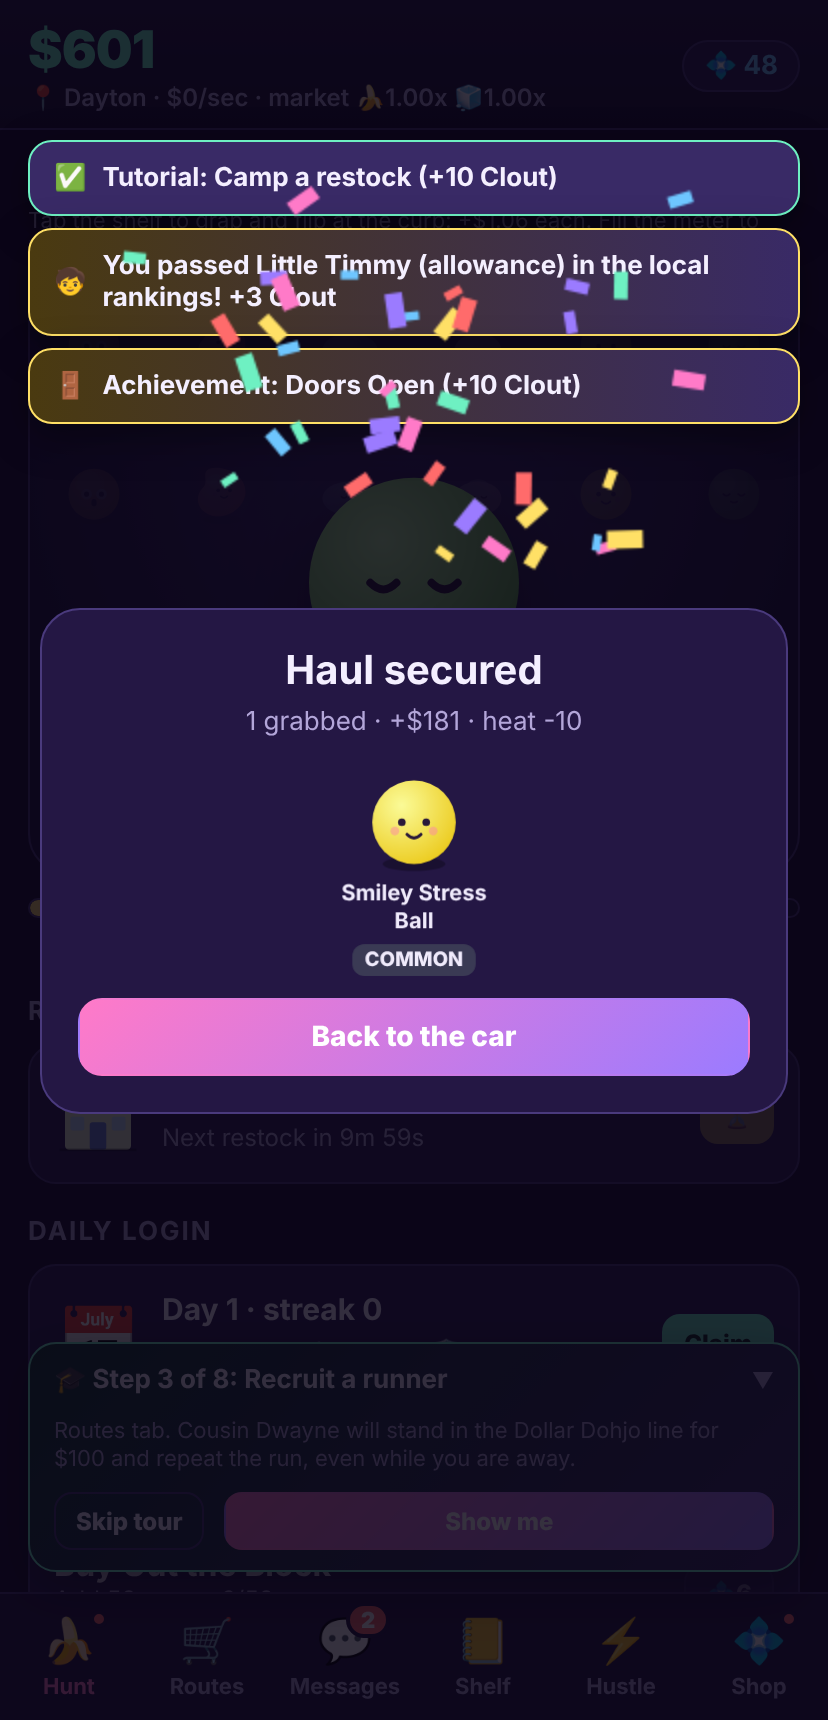
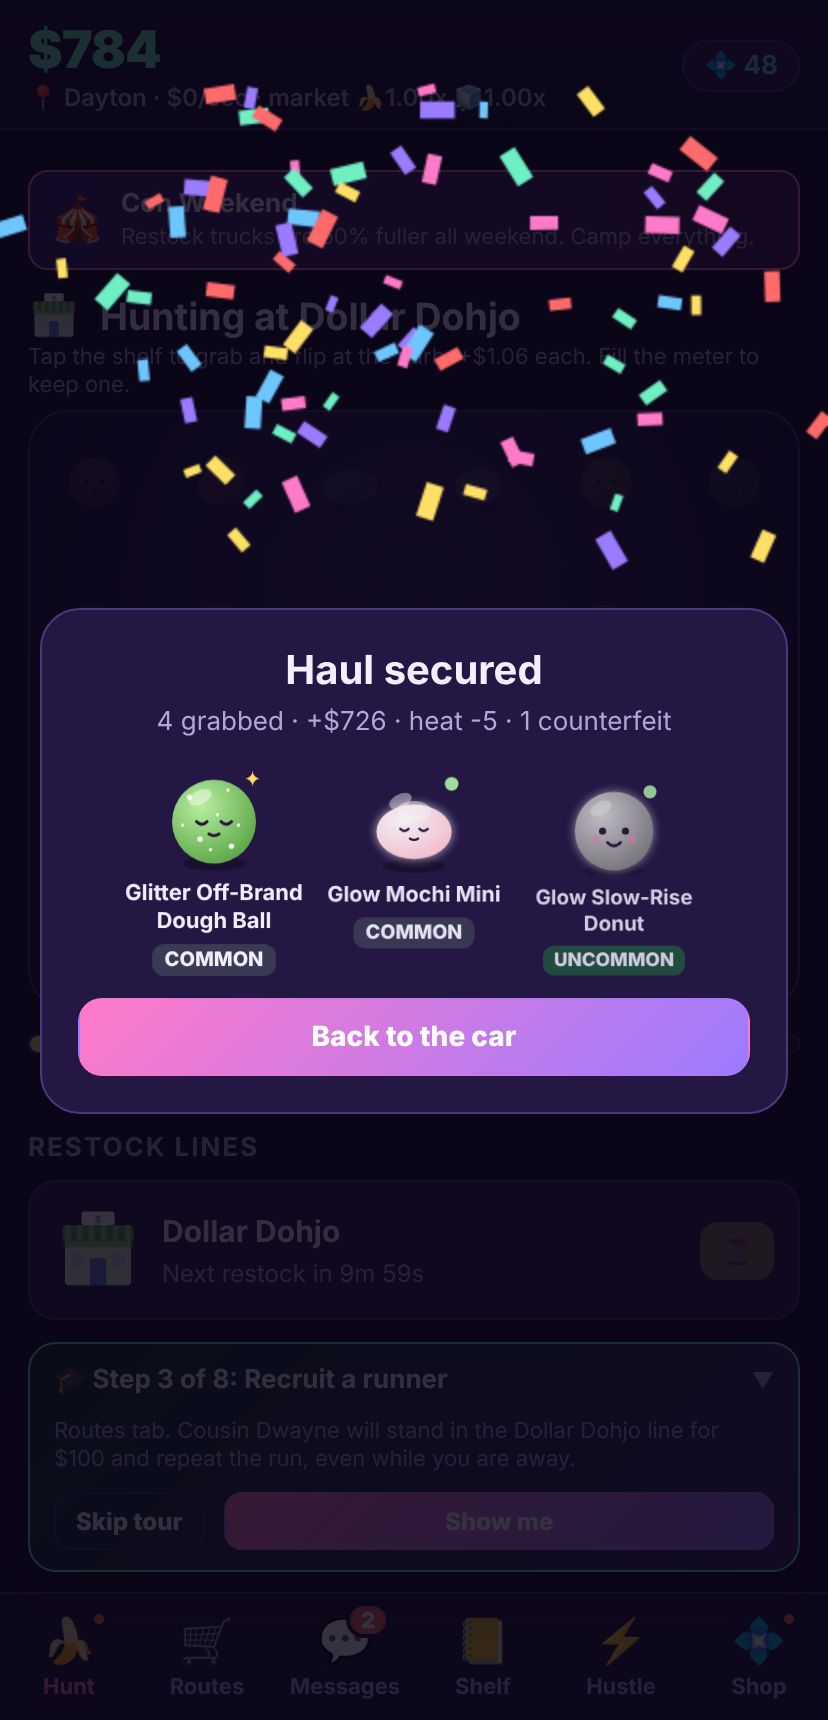
Scalping Squishies: trade board, quiet screenshots, listing shots in CI
- Trade board (Shelf → 🔄): three offers a day rolled from the dupes
  on the shelf. Collectors swap a piece you do not own for 2 copies at
  the same rarity or 3 copies one tier up; you always keep one copy;
  seasonal items never appear; variant gaps are offered once a tier's
  standards are all owned. Rolls in the tick, 4 tests.
- ?quiet=1 hides toasts; the smoke test runs quiet so screenshots are
  clean. Store screenshots regenerated.
- CI composes the six framed App Store screenshots on every push and
  uploads them as the store-screenshots artifact.
- Backlog and design doc updated. 85 tests.

Claude-Session: https://claude.ai/code/session_01MZnGvyVSyAsA5yFMotXPV8

diff --git a/scalping-squishies/src/engine/trades.ts b/scalping-squishies/src/engine/trades.ts
@@ -1,0 +1,106 @@
+// Trade board: NPC collectors who swap pieces you are missing for the
+// duplicates clogging your shelf. Three offers a day. You always keep one
+// copy of what you give, the piece you get is one you do not own, and the
+// rarity never jumps more than one tier, so trades complete pages rather
+// than skipping the pull economy.
+import type { GameState, ItemDef, PullView, Rarity, Variant } from './types';
+import { ITEMS, ITEM_BY_ID, RARITY_ORDER, VARIANTS, shelfKey, parseShelfKey } from './data/items';
+import { todayKey } from './math';
+
+export interface TradeOffer {
+  id: number;
+  collector: string;
+  icon: string;
+  line: string;
+  /** Shelf key you give (item id, or id:variant) and how many. */
+  giveKey: string;
+  giveQty: number;
+  /** What you get: always a slot you do not own. */
+  getItemId: string;
+  getVariant: Variant;
+}
+
+export interface TradeBoard {
+  date: string;
+  offers: TradeOffer[];
+  done: number[];
+}
+
+const COLLECTORS: { name: string; icon: string; lines: string[] }[] = [
+  { name: 'Nana Pat', icon: '👵', lines: ['"I have three of these and no grandkids left to give them to."', '"My page is missing one. Yours has extras. We are both adults."'] },
+  { name: 'Group Admin Brenda', icon: '📱', lines: ['"Trade only, no cash, keep it in the group."', '"I need this one for a giveaway I am not running."'] },
+  { name: 'Dalton', icon: '🧢', lines: ['"It\'s for my kid." It is not for his kid.', '"Straight swap, no shipping, meet at the gas station."'] },
+  { name: 'Retired guy who is just curious', icon: '👴', lines: ['"Which one is the valuable one? Never mind. Swap?"', '"I bought the wrong one for my grandson. Twice."'] },
+  { name: 'the_other_reseller', icon: '🤝', lines: ['"Even trade, bro. Don\'t check the comps."', '"I have a spare. You have a spare. Math."'] },
+];
+
+const rarityIndex = (r: Rarity) => RARITY_ORDER.indexOf(r);
+
+/** Dupes you could give: standard-or-variant slots with at least `qty + 1` copies. */
+export function tradeableDupes(s: GameState): { key: string; item: ItemDef; variant: Variant; count: number }[] {
+  const out: { key: string; item: ItemDef; variant: Variant; count: number }[] = [];
+  for (const [key, count] of Object.entries(s.shelf)) {
+    if (count < 2) continue;
+    const { itemId, variant } = parseShelfKey(key);
+    const item = ITEM_BY_ID[itemId];
+    if (item && !item.season) out.push({ key, item, variant, count });
+  }
+  return out;
+}
+
+/** Slots you lack that a collector would offer for a dupe of `give`: core items, at most one rarity tier up. */
+function wantsFor(s: GameState, give: ItemDef, rand: () => number): { item: ItemDef; variant: Variant } | null {
+  const maxTier = Math.min(RARITY_ORDER.length - 1, rarityIndex(give.rarity) + 1);
+  const missing = ITEMS.filter((i) => rarityIndex(i.rarity) <= maxTier && (s.shelf[i.id] ?? 0) === 0);
+  const sameFamily = missing.filter((i) => i.family === give.family);
+  const pool = sameFamily.length && rand() < 0.7 ? sameFamily : missing;
+  if (pool.length) return { item: pool[Math.floor(rand() * pool.length)], variant: 'standard' };
+  // Every standard at that tier is owned: offer a missing variant slot of something you have.
+  const variantGaps: { item: ItemDef; variant: Variant }[] = [];
+  for (const i of ITEMS) {
+    if (rarityIndex(i.rarity) > maxTier || (s.shelf[i.id] ?? 0) === 0) continue;
+    for (const v of VARIANTS) if (v !== 'standard' && (s.shelf[shelfKey(i.id, v)] ?? 0) === 0) variantGaps.push({ item: i, variant: v });
+  }
+  return variantGaps.length ? variantGaps[Math.floor(rand() * variantGaps.length)] : null;
+}
+
+/** Roll today's board if it has not been rolled yet. Returns true when it rolled. */
+export function rollTrades(s: GameState, now: number, rand: () => number): boolean {
+  const key = todayKey(now);
+  if (s.trades.date === key) return false;
+  const dupes = tradeableDupes(s);
+  const offers: TradeOffer[] = [];
+  const usedGive = new Set<string>();
+  const usedGet = new Set<string>();
+  let guard = 0;
+  while (offers.length < 3 && dupes.length && guard++ < 30) {
+    const d = dupes[Math.floor(rand() * dupes.length)];
+    if (usedGive.has(d.key)) continue;
+    const want = wantsFor(s, d.item, rand);
+    if (!want) break;
+    const getKey = shelfKey(want.item.id, want.variant);
+    if (usedGet.has(getKey)) continue;
+    const up = rarityIndex(want.item.rarity) - rarityIndex(d.item.rarity);
+    const qty = (up >= 1 ? 3 : 2) * (d.variant === 'standard' ? 1 : 1);
+    if (d.count < qty + 1) continue;
+    const c = COLLECTORS[Math.floor(rand() * COLLECTORS.length)];
+    usedGive.add(d.key);
+    usedGet.add(getKey);
+    offers.push({ id: offers.length + 1, collector: c.name, icon: c.icon, line: c.lines[Math.floor(rand() * c.lines.length)], giveKey: d.key, giveQty: qty, getItemId: want.item.id, getVariant: want.variant });
+  }
+  s.trades = { date: key, offers, done: [] };
+  return true;
+}
+
+/** Make the swap. Returns what you got, or null if the offer is gone or you no longer have the dupes. */
+export function acceptTrade(s: GameState, id: number): PullView | null {
+  const o = s.trades.offers.find((x) => x.id === id);
+  if (!o || s.trades.done.includes(id)) return null;
+  if ((s.shelf[o.giveKey] ?? 0) < o.giveQty + 1) return null;
+  const getKey = shelfKey(o.getItemId, o.getVariant);
+  s.shelf[o.giveKey] -= o.giveQty;
+  s.shelf[getKey] = (s.shelf[getKey] ?? 0) + 1;
+  s.trades.done.push(id);
+  s.stats.tradesDone += 1;
+  return { item: ITEM_BY_ID[o.getItemId], variant: o.getVariant };
+}

diff --git a/scalping-squishies/src/ui/ShelfTab.tsx b/scalping-squishies/src/ui/ShelfTab.tsx
@@ -9,6 +9,8 @@ import type { ItemFamily, Variant } from '../engine/types';
 import { Sprite } from '../art/Sprite';
 import { SEASON_BY_ID } from '../engine/data/seasons';
 import { visibleSeasonItems } from '../engine/season';
+import { tradeableDupes } from '../engine/trades';
+import { parseShelfKey } from '../engine/data/items';
 
 export function ShelfTab() {
   const s = useGame((g) => g.s);
@@ -16,14 +18,16 @@ export function ShelfTab() {
   const pull = useGame((g) => g.pull);
   const sellDupe = useGame((g) => g.sellDupe);
   const watchAd = useGame((g) => g.watchAd);
-  const [fam, setFam] = useState<ItemFamily | 'all' | 'sets' | 'season'>('all');
+  const [fam, setFam] = useState<ItemFamily | 'all' | 'sets' | 'season' | 'trades'>('all');
+  const acceptTradeOffer = useGame((g) => g.acceptTradeOffer);
   const [sel, setSel] = useState<string | null>(null);
   const m = computeModifiers(s, now);
   const slots = ITEMS.length * VARIANTS.length;
   const ownedSlots = ITEMS.reduce((a, i) => a + VARIANTS.filter((v) => (s.shelf[shelfKey(i.id, v)] ?? 0) > 0).length, 0);
   const seasonItems = visibleSeasonItems(s);
   const liveSeason = s.season.id ? SEASON_BY_ID[s.season.id] : null;
-  const list = fam === 'season' ? seasonItems : ITEMS.filter((i) => fam === 'all' || i.family === fam);
+  const list = fam === 'season' ? seasonItems : fam === 'trades' ? [] : ITEMS.filter((i) => fam === 'all' || i.family === fam);
+  const openTrades = s.trades.offers.filter((o) => !s.trades.done.includes(o.id));
   const hunting = STORE_BY_ID[highestUnlockedStore(s)];
   const selected = sel ? ITEM_BY_ID[sel] ?? null : null;
   const adReady = (s.adCooldowns.free_pull ?? 0) <= now;
@@ -69,14 +73,50 @@ export function ShelfTab() {
       </div>
 
       <div className="seg">
-        {(['all', 'squish', 'doh', 'sets', 'season'] as const).filter((f) => f !== 'season' || seasonItems.length > 0).map((f) => (
+        {(['all', 'squish', 'doh', 'sets', 'trades', 'season'] as const).filter((f) => f !== 'season' || seasonItems.length > 0).map((f) => (
           <button key={f} className={fam === f ? 'active' : ''} onClick={() => setFam(f)}>
-            {f === 'all' ? 'All' : f === 'squish' ? '🍌 Squishies' : f === 'doh' ? '🧊 Dohs' : f === 'sets' ? '📚 Sets' : `${liveSeason?.icon ?? '🎁'} Seasonal`}
+            {f === 'all' ? 'All' : f === 'squish' ? '🍌' : f === 'doh' ? '🧊' : f === 'sets' ? '📚 Sets' : f === 'trades' ? `🔄${openTrades.length ? ` ${openTrades.length}` : ''}` : `${liveSeason?.icon ?? '🎁'}`}
           </button>
         ))}
       </div>
 
-      {fam === 'sets' ? (
+      {fam === 'trades' ? (
+        <div>
+          <div className="card">
+            <h3>Trade board</h3>
+            <div className="sub">Collectors in the group swap pieces you are missing for your duplicates. Three offers a day, you always keep one copy, and nobody trades up more than one tier.</div>
+          </div>
+          {openTrades.length === 0 && (
+            <div className="card center sub">{tradeableDupes(s).length === 0 ? 'No duplicates on the shelf yet. Pull a few and the offers start.' : s.trades.offers.length ? 'All traded. New offers tomorrow.' : 'The board rolls at midnight.'}</div>
+          )}
+          {openTrades.map((o) => {
+            const give = parseShelfKey(o.giveKey);
+            const giveItem = ITEM_BY_ID[give.itemId];
+            const getItem = ITEM_BY_ID[o.getItemId];
+            const have = s.shelf[o.giveKey] ?? 0;
+            const can = have >= o.giveQty + 1;
+            return (
+              <div className="card" key={o.id}>
+                <div className="row"><span style={{ fontSize: 22 }}>{o.icon}</span><div className="grow"><b>{o.collector}</b><div className="sub">{o.line}</div></div></div>
+                <div className="row mt" style={{ alignItems: 'center', gap: 10 }}>
+                  <div className="center" style={{ flex: 1 }}>
+                    <Sprite id={giveItem.id} size={44} variant={give.variant} />
+                    <div className="small">You give ×{o.giveQty}</div>
+                    <div className="small"><b>{give.variant !== 'standard' ? `${VARIANT_LABEL[give.variant]} ` : ''}{giveItem.name}</b> (have {have})</div>
+                  </div>
+                  <span style={{ fontSize: 22 }}>➡</span>
+                  <div className="center" style={{ flex: 1 }}>
+                    <Sprite id={getItem.id} size={44} variant={o.getVariant} />
+                    <div className="small">You get</div>
+                    <div className="small"><b>{o.getVariant !== 'standard' ? `${VARIANT_LABEL[o.getVariant]} ` : ''}{getItem.name}</b> <span className={`tag ${getItem.rarity}`}>{RARITY_LABEL[getItem.rarity]}</span></div>
+                  </div>
+                </div>
+                <button className="btn mint block mt" disabled={!can} onClick={() => acceptTradeOffer(o.id)}>{can ? 'Trade' : `Need ${o.giveQty + 1} copies`}</button>
+              </div>
+            );
+          })}
+        </div>
+      ) : fam === 'sets' ? (
         <div>
           {STORES.map((st) => {
             const rows = sets.filter((x) => x.id.startsWith(`${st.id}:`));

diff --git a/scalping-squishies/tests/trades.test.ts b/scalping-squishies/tests/trades.test.ts
@@ -1,0 +1,69 @@
+import { describe, it, expect } from 'vitest';
+import { initialState, migrate } from '../src/engine/state';
+import { tick } from '../src/engine/sim';
+import { rollTrades, acceptTrade, tradeableDupes } from '../src/engine/trades';
+import { ITEM_BY_ID, RARITY_ORDER, shelfKey } from '../src/engine/data/items';
+import { makeRng } from '../src/engine/math';
+
+const T0 = 1_700_000_000_000;
+const DAY = 86_400_000;
+
+describe('trade board', () => {
+  it('needs dupes: an empty shelf rolls an empty board, and it rolls once a day', () => {
+    const s = initialState(T0);
+    expect(rollTrades(s, T0, makeRng(1))).toBe(true);
+    expect(s.trades.offers).toEqual([]);
+    expect(rollTrades(s, T0 + 3600_000, makeRng(1))).toBe(false);
+    s.shelf.doh_kube = 4;
+    expect(rollTrades(s, T0 + DAY, makeRng(1))).toBe(true);
+    expect(s.trades.offers.length).toBeGreaterThan(0);
+  });
+  it('offers give a dupe you keep one of, for a slot you lack, at most one tier up', () => {
+    const s = initialState(T0);
+    s.shelf.doh_kube = 5; // uncommon
+    s.shelf.sq_nana = 4; // rare
+    s.shelf['doh_glob:glow'] = 3; // rare variant dupe
+    rollTrades(s, T0, makeRng(7));
+    expect(s.trades.offers.length).toBeGreaterThan(0);
+    expect(s.trades.offers.length).toBeLessThanOrEqual(3);
+    for (const o of s.trades.offers) {
+      const give = ITEM_BY_ID[o.giveKey.split(':')[0]];
+      const get = ITEM_BY_ID[o.getItemId];
+      expect(s.shelf[shelfKey(o.getItemId, o.getVariant)] ?? 0).toBe(0);
+      expect(RARITY_ORDER.indexOf(get.rarity)).toBeLessThanOrEqual(RARITY_ORDER.indexOf(give.rarity) + 1);
+      expect(o.giveQty).toBe(RARITY_ORDER.indexOf(get.rarity) > RARITY_ORDER.indexOf(give.rarity) ? 3 : 2);
+      expect(s.shelf[o.giveKey]).toBeGreaterThanOrEqual(o.giveQty + 1);
+      expect(get.season).toBeUndefined();
+    }
+  });
+  it('accepting swaps the copies, is one-shot, and refuses once the dupes are gone', () => {
+    const s = initialState(T0);
+    s.shelf.doh_kube = 3;
+    rollTrades(s, T0, makeRng(3));
+    const o = s.trades.offers[0];
+    expect(o).toBeTruthy();
+    const got = acceptTrade(s, o.id)!;
+    expect(got.item.id).toBe(o.getItemId);
+    expect(s.shelf.doh_kube).toBe(3 - o.giveQty);
+    expect(s.shelf[shelfKey(o.getItemId, o.getVariant)]).toBe(1);
+    expect(s.stats.tradesDone).toBe(1);
+    expect(acceptTrade(s, o.id)).toBeNull();
+    const s2 = initialState(T0);
+    s2.shelf.doh_kube = 3;
+    rollTrades(s2, T0, makeRng(3));
+    s2.shelf.doh_kube = 2; // sold a dupe in the meantime
+    expect(acceptTrade(s2, s2.trades.offers[0].id)).toBeNull();
+  });
+  it('the tick rolls the board daily and old saves get an empty one', () => {
+    const s = initialState(T0);
+    s.shelf.sq_mochi = 6;
+    tick(s, 1, T0, makeRng(1));
+    expect(s.trades.date).toBeTruthy();
+    const first = s.trades.offers.map((o) => o.id + o.getItemId).join();
+    tick(s, 1, T0 + DAY, makeRng(2));
+    expect(s.trades.done).toEqual([]);
+    expect(typeof first).toBe('string');
+    expect(migrate({ cash: 1 }).trades).toEqual({ date: '', offers: [], done: [] });
+    expect(tradeableDupes(s).length).toBe(1);
+  });
+});

diff --git a/scalping-squishies/src/engine/store.ts b/scalping-squishies/src/engine/store.ts
@@ -23,6 +23,7 @@ import { ACHIEVEMENTS } from './data/achievements';
 import { acceptOffer, counterOffer, declineOffer, apologize, tossFake, flipFake, fakeRoll } from './deals';
 import { unitCost, maxAffordable, todayKey } from './math';
 import { buySeasonItem, claimSeasonMission } from './season';
+import { acceptTrade } from './trades';
 import { setSeasonOverride, SEASON_BY_ID } from './data/seasons';
 import { CONFIG } from '../config';
 import { AD_RULES, type AdPlacement, type MonetizationProvider } from '../monetization/provider';
@@ -82,6 +83,7 @@ interface GameStore {
   buyUpgrade: (id: string) => void;
   pull: (count: 1 | 10, free?: boolean) => void;
   sellDupe: (shelfKey: string) => void;
+  acceptTradeOffer: (id: number) => void;
   doPrestige: (cityId: string) => Promise<void>;
   openRelocate: () => void;
   closeRelocate: () => void;
@@ -444,6 +446,16 @@ export const useGame = create<GameStore>((set, get) => {
       set({ s: { ...s }, lastPulls: results });
     },
 
+    acceptTradeOffer: (id) => {
+      const st = get();
+      const got = acceptTrade(st.s, id);
+      if (!got) { toast('That trade is gone', '🔄', 'bad'); return; }
+      toast(`Traded for ${got.variant !== 'standard' ? got.variant + ' ' : ''}${got.item.name}`, '🔄', got.item.rarity === 'common' ? 'info' : 'rare');
+      sfx.deal();
+      track('deal', { action: 'trade_board' });
+      set({ s: { ...st.s }, lastPulls: [got] });
+      get().save();
+    },
     sellDupe: (key) => {
       const st = get();
       const v = sellDuplicate(st.s, key, st.now);

diff --git a/scalping-squishies/src/engine/state.ts b/scalping-squishies/src/engine/state.ts
@@ -53,6 +53,7 @@ export function initialState(now = Date.now()): GameState {
     restockIntel: {},
     season: { id: null, tokens: 0, bought: [], missions: [], missionsDate: '' },
     seasonSplashSeen: [],
+    trades: { date: '', offers: [], done: [] },
     stats: {
       totalCashEarned: 0,
       lifetimeCashEarned: 0,
@@ -127,6 +128,7 @@ export function migrate(raw: unknown, now = Date.now()): GameState {
     season: { ...fresh.season, ...(s.season ?? {}), bought: Array.isArray(s.season?.bought) ? s.season!.bought : [], missions: Array.isArray(s.season?.missions) ? s.season!.missions : [] },
     seasonSplashSeen: Array.isArray(s.seasonSplashSeen) ? s.seasonSplashSeen : [],
     streakShieldUsedOn: typeof s.streakShieldUsedOn === 'string' ? s.streakShieldUsedOn : '',
+    trades: s.trades && Array.isArray(s.trades.offers) ? { date: String(s.trades.date ?? ''), offers: s.trades.offers, done: Array.isArray(s.trades.done) ? s.trades.done : [] } : fresh.trades,
     pendingComeback: s.pendingComeback ?? null,
     version: SAVE_VERSION,
   };

diff --git a/scalping-squishies/src/engine/sim.ts b/scalping-squishies/src/engine/sim.ts
@@ -14,6 +14,7 @@ import { RANKED_RIVALS } from './data/rivals';
 import { TUTORIAL } from './data/tutorial';
 import { milestoneMult, todayKey, weightedPick, clamp } from './math';
 import { tickSeason, bumpSeasonMissions, earnTokens, rollSeasonItem, seasonSets } from './season';
+import { rollTrades } from './trades';
 import { SEASON_PULL_CHANCE, SEASON_TOKENS } from './data/seasons';
 
 // ---------------------------------------------------------------------------
@@ -301,6 +302,8 @@ export function tick(s: GameState, dt: number, now: number, rand: () => number =
   const season = tickSeason(s, now, rand);
   if (season.started) res.seasonStarted = season.started.id;
   if (season.ended) res.seasonEnded = { id: season.ended.season.id, clout: season.ended.clout };
+  // Trade board rolls once a day from whatever dupes are on the shelf.
+  rollTrades(s, now, rand);
 
   // Tutorial steps complete themselves from state.
   for (const t of TUTORIAL) {

diff --git a/scalping-squishies/src/ui/Overlays.tsx b/scalping-squishies/src/ui/Overlays.tsx
@@ -7,6 +7,7 @@ import { isAdFree } from '../engine/sim';
 import { Sprite } from '../art/Sprite';
 import type { AdPlacement } from '../monetization';
 import { SEASON_BY_ID, SEASON_SHOP_PRICE, SEASON_TOKENS, seasonEndsAt, itemsForSeason } from '../engine/data/seasons';
+import { CONFIG } from '../config';
 
 /** Offline earnings, pull results, and toasts. */
 export function Overlays() {
@@ -93,7 +94,7 @@ export function Overlays() {
         </div>
       )}
       <div className="toasts">
-        {toasts.map((t) => (
+        {!CONFIG.quiet && toasts.map((t) => (
           <div key={t.id} className={`toast ${t.kind ?? ''} ${t.tab ? 'link' : ''}`} onClick={() => { if (t.tab) { requestTab(t.tab); dismissToast(t.id); } }}>
             {t.icon && <span>{t.icon}</span>}
             {t.text}

diff --git a/scalping-squishies/src/config.ts b/scalping-squishies/src/config.ts
@@ -21,6 +21,8 @@ export const CONFIG = {
   siteUrl: (env.VITE_SITE_URL || 'https://oneystar1.github.io/New/').replace(/\/?$/, '/'),
   /** Force a season on for testing: VITE_FORCE_SEASON or ?season=<id> (or 'none'). */
   forceSeason: (typeof location !== 'undefined' && new URLSearchParams(location.search).get('season')) || env.VITE_FORCE_SEASON || '',
+  /** ?quiet=1 hides toasts (screenshot runs). */
+  quiet: typeof location !== 'undefined' && new URLSearchParams(location.search).get('quiet') === '1',
   /** Build label shown in settings. */
   version: env.VITE_APP_VERSION ?? '0.1.0',
 };

diff --git a/scalping-squishies/src/engine/types.ts b/scalping-squishies/src/engine/types.ts
@@ -392,6 +392,8 @@ export interface GameState {
   season: SeasonState;
   /** Season ids whose "what's new" card has been shown. */
   seasonSplashSeen: string[];
+  /** Today's trade board: NPC collectors swapping your dupes for missing pieces. */
+  trades: { date: string; offers: import('./trades').TradeOffer[]; done: number[] };
   stats: Stats;
   settings: { sfx: boolean; haptics: boolean; notation: 'short' | 'scientific' };
 }

diff --git a/scalping-squishies/docs/backlog.md b/scalping-squishies/docs/backlog.md
@@ -8,17 +8,19 @@ Mark done with the date. Add anything noticed during a cycle.
 
 | # | Area | Item | Size | Added |
 | --- | --- | --- | --- | --- |
-| 7 | retention | Trade board: NPC collectors who swap your dupes for pieces you are missing | day | 2026-11-09 |
+| 16 | retention | Trade board: a "wanted" post from the player (pick a missing piece; a collector shows up for it within a few days at a steeper price) | half day | 2026-11-21 |
+| 17 | polish | Store shot 02 ("Flip the dohs") captures the pull-result modal; have the smoke test take the hunt capture before the first pull, or add a dedicated listing capture pass | small | 2026-11-21 |
 | 8 | content | Season 2 of the Hustle Pass rotating on the season calendar | day | 2026-11-09 |
-| 12 | polish | Season splash: show the real end date in the player's locale and a "remind me" that schedules the 48h notification on web too (web has no notifications; consider a header reminder instead) | small | 2026-11-19 |
 | 15 | retention | Comeback crate: scale the crate with lifetime progress (a relocated player should get more than 60 minutes) and mention what changed while away (season started, restocks ready) | small | 2026-11-20 |
-| 14 | polish | Store screenshots: capture with tutorial toasts suppressed (a `?quiet=1` flag that hides toasts and the coach) | small | 2026-11-19 |
-| 13 | launch | Enable the `shots:store` step in CI as an uploaded artifact so listing images refresh on every push | small | 2026-11-19 |
 
 ## Done
 
 | # | Area | Item | Done |
 | --- | --- | --- | --- |
+| 12 | polish | Season splash: show the real end date in the player's locale and a "remind me" that schedules the 48h notification on web too (web has no notifications; consider a header reminder instead) (end date is localized and the header countdown is the reminder; nothing further) | 2026-11-21 |
+| 13 | launch | Enable the `shots:store` step in CI as an uploaded artifact so listing images refresh on every push | 2026-11-21 |
+| 14 | polish | Store screenshots: capture with tutorial toasts suppressed (a `?quiet=1` flag that hides toasts and the coach) | 2026-11-21 |
+| 7 | retention | Trade board: NPC collectors who swap your dupes for pieces you are missing | 2026-11-21 |
 | 6 | launch | Balance bot in CI: run the simulation on every push, fail on drift, table in the job summary | 2026-11-20 |
 | 5 | polish | Carry the dawn scene into the doors phase: OPEN sign, line surging in, shelf emptying | 2026-11-20 |
 | 4 | retention | Comeback gift and streak shield: one free missed day, a welcome-back crate after 2+ days away | 2026-11-20 |

diff --git a/scalping-squishies/docs/game-design.md b/scalping-squishies/docs/game-design.md
@@ -362,3 +362,12 @@ bounds (stores 35 to 80%, deals 8 to 45%, restocks 3 to 35%, taps under
 15%), if the first Relocate is not reachable within 6 hours, or if the
 bot gets Called Out more than three times. The table lands in the job
 summary.
+
+**Trade board (Shelf → 🔄).** Three offers roll at midnight from the
+duplicates on the shelf: a collector (Nana Pat, Group Admin Brenda,
+Dalton, the retired guy, the_other_reseller) asks for 2 copies of a dupe
+for a piece you do not own at the same rarity, or 3 copies for one tier
+up. You always keep one copy, seasonal items are never on the board, and
+when every standard at that tier is owned the offer is a missing variant
+slot instead. Accepting swaps the copies, counts as a trade for stats,
+and shows the piece like a pull.
